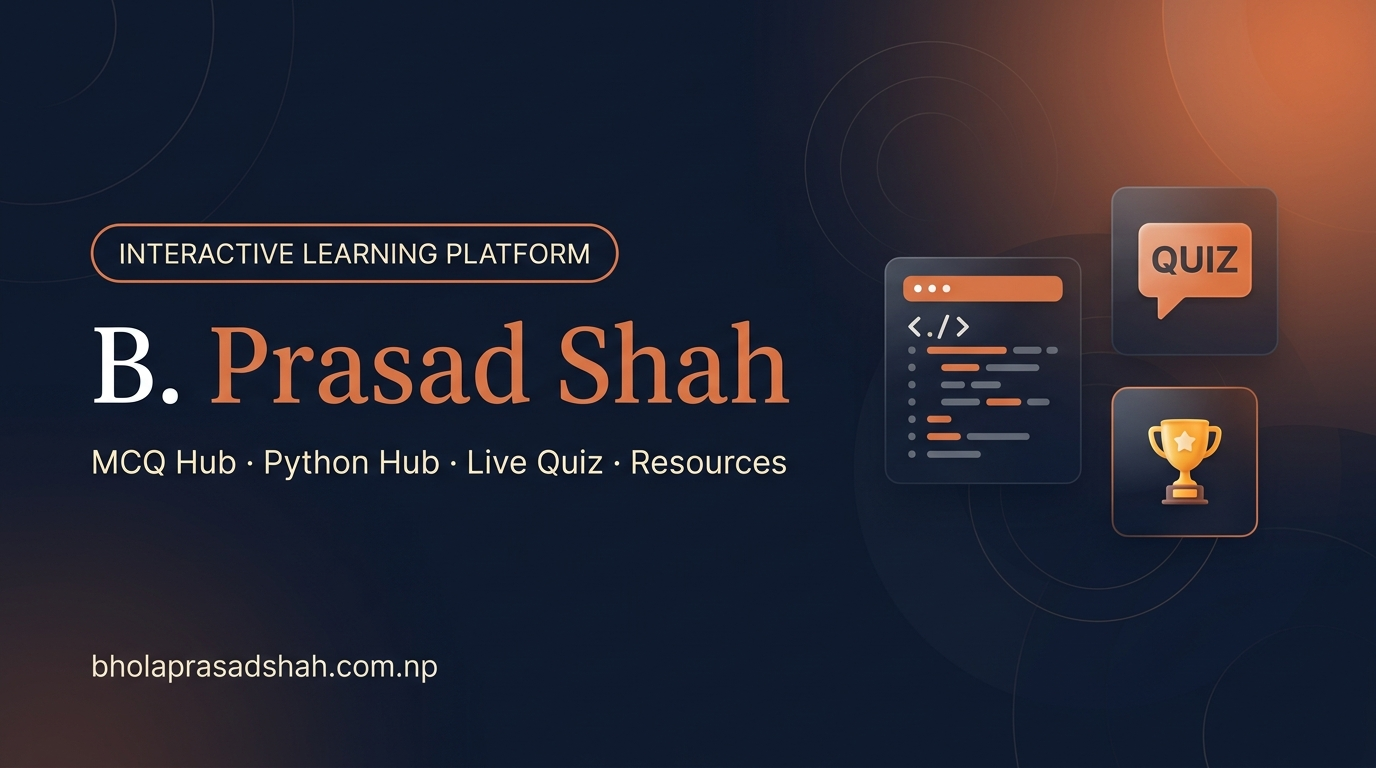
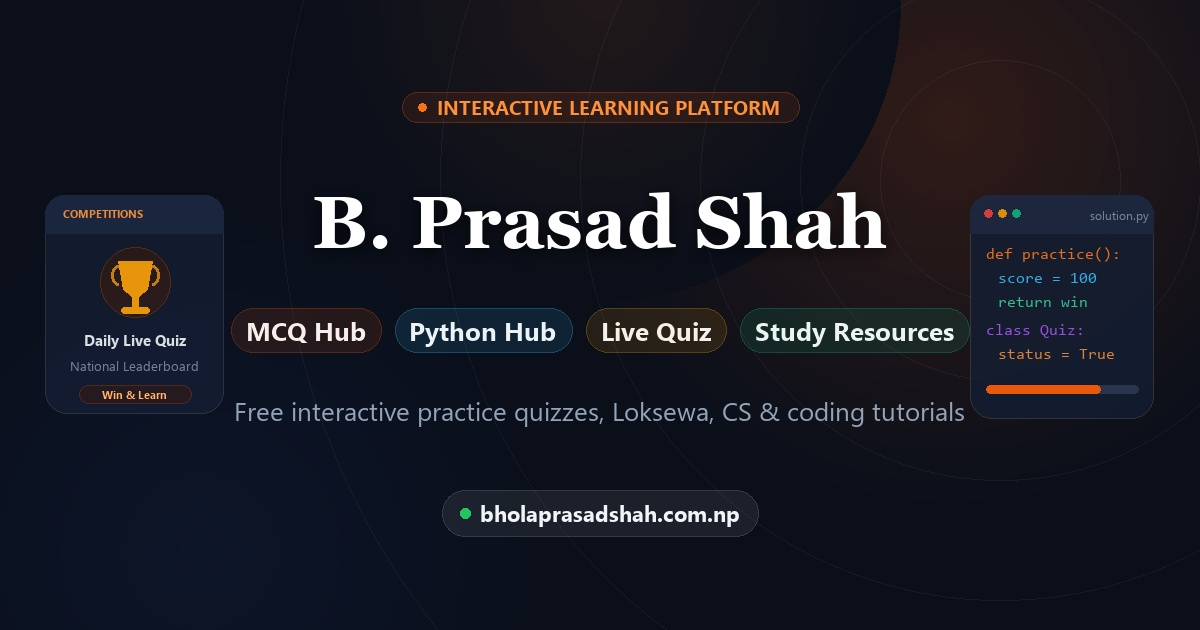
Add files via upload

diff --git a/live-quiz.html b/live-quiz.html
@@ -12,7 +12,7 @@
   <meta property="og:url" content="https://bholaprasadshah.com.np/live-quiz.html" />
   <meta property="og:title" content="Live Weekly Quiz | B. Prasad Shah" />
   <meta property="og:description" content="Join the Live Weekly Quiz — compete in real-time, test your knowledge, and win the weekly leaderboard!" />
-  <meta property="og:image" content="https://bholaprasadshah.com.np/assets/og-image.jpg" />
+  <meta property="og:image" content="https://bholaprasadshah.com.np/assets/og-image.jpg?v=20260926_01" />
   <meta property="og:image:width" content="1200" />
   <meta property="og:image:height" content="630" />
   <meta property="og:site_name" content="B. Prasad Shah" />
@@ -21,9 +21,9 @@
   <meta name="twitter:url" content="https://bholaprasadshah.com.np/live-quiz.html" />
   <meta name="twitter:title" content="Live Weekly Quiz | B. Prasad Shah" />
   <meta name="twitter:description" content="Join the Live Weekly Quiz — compete in real-time, test your knowledge, and win the weekly leaderboard!" />
-  <meta name="twitter:image" content="https://bholaprasadshah.com.np/assets/og-image.jpg" />
-  <link rel="stylesheet" href="css/style.css?v=20260922_10" />
-  <link rel="stylesheet" href="css/live.css?v=20260925_02" />
+  <meta name="twitter:image" content="https://bholaprasadshah.com.np/assets/og-image.jpg?v=20260926_01" />
+  <link rel="stylesheet" href="css/style.css?v=20260926_01" />
+  <link rel="stylesheet" href="css/live.css?v=20260926_01" />
   <link rel="preconnect" href="https://fonts.googleapis.com" />
   <link rel="preconnect" href="https://fonts.gstatic.com" crossorigin />
   <link href="https://fonts.googleapis.com/css2?family=Fraunces:opsz,wght@9..144,500;9..144,700&family=Inter:wght@400;500;600;700&display=swap" rel="stylesheet" />
@@ -344,6 +344,6 @@
   <script src="js/firebase-config.js"></script>
   <script src="js/auth-widget.js"></script>
   <script src="js/nav-drawer.js"></script>
-  <script src="js/live.js"></script>
+  <script src="js/live.js?v=20260926_01"></script>
 </body>
 </html>

diff --git a/live.html b/live.html
@@ -12,7 +12,7 @@
   <meta property="og:url" content="https://bholaprasadshah.com.np/live.html" />
   <meta property="og:title" content="Live Weekly Quiz | B. Prasad Shah" />
   <meta property="og:description" content="Join the Live Weekly Quiz — compete in real-time, test your knowledge, and win the weekly leaderboard!" />
-  <meta property="og:image" content="https://bholaprasadshah.com.np/assets/og-image.jpg" />
+  <meta property="og:image" content="https://bholaprasadshah.com.np/assets/og-image.jpg?v=20260926_01" />
   <meta property="og:image:width" content="1200" />
   <meta property="og:image:height" content="630" />
   <meta property="og:site_name" content="B. Prasad Shah" />
@@ -21,9 +21,9 @@
   <meta name="twitter:url" content="https://bholaprasadshah.com.np/live.html" />
   <meta name="twitter:title" content="Live Weekly Quiz | B. Prasad Shah" />
   <meta name="twitter:description" content="Join the Live Weekly Quiz — compete in real-time, test your knowledge, and win the weekly leaderboard!" />
-  <meta name="twitter:image" content="https://bholaprasadshah.com.np/assets/og-image.jpg" />
-  <link rel="stylesheet" href="css/style.css?v=20260922_10" />
-  <link rel="stylesheet" href="css/live.css?v=20260925_02" />
+  <meta name="twitter:image" content="https://bholaprasadshah.com.np/assets/og-image.jpg?v=20260926_01" />
+  <link rel="stylesheet" href="css/style.css?v=20260926_01" />
+  <link rel="stylesheet" href="css/live.css?v=20260926_01" />
   <link rel="preconnect" href="https://fonts.googleapis.com" />
   <link rel="preconnect" href="https://fonts.gstatic.com" crossorigin />
   <link href="https://fonts.googleapis.com/css2?family=Fraunces:opsz,wght@9..144,500;9..144,700&family=Inter:wght@400;500;600;700&display=swap" rel="stylesheet" />
@@ -344,6 +344,6 @@
   <script src="js/firebase-config.js"></script>
   <script src="js/auth-widget.js"></script>
   <script src="js/nav-drawer.js"></script>
-  <script src="js/live.js"></script>
+  <script src="js/live.js?v=20260926_01"></script>
 </body>
 </html>

diff --git a/mcq.html b/mcq.html
@@ -12,7 +12,7 @@
   <meta property="og:url" content="https://bholaprasadshah.com.np/mcq.html" />
   <meta property="og:title" content="MCQ Hub | B. Prasad Shah" />
   <meta property="og:description" content="Practice thousands of MCQs on GK, Loksewa, Science, Maths and more. Free multiple-choice quiz practice by B. Prasad Shah." />
-  <meta property="og:image" content="https://bholaprasadshah.com.np/assets/og-image.jpg" />
+  <meta property="og:image" content="https://bholaprasadshah.com.np/assets/og-image.jpg?v=20260926_01" />
   <meta property="og:image:width" content="1200" />
   <meta property="og:image:height" content="630" />
   <meta property="og:site_name" content="B. Prasad Shah" />
@@ -21,7 +21,7 @@
   <meta name="twitter:url" content="https://bholaprasadshah.com.np/mcq.html" />
   <meta name="twitter:title" content="MCQ Hub | B. Prasad Shah" />
   <meta name="twitter:description" content="Practice thousands of MCQs on GK, Loksewa, Science, Maths and more. Free multiple-choice quiz practice by B. Prasad Shah." />
-  <meta name="twitter:image" content="https://bholaprasadshah.com.np/assets/og-image.jpg" />
+  <meta name="twitter:image" content="https://bholaprasadshah.com.np/assets/og-image.jpg?v=20260926_01" />
   <link rel="stylesheet" href="css/style.css?v=20260922_11" />
   <link rel="stylesheet" href="css/mcq.css?v=20260925_04" />
   <link rel="preconnect" href="https://fonts.googleapis.com" />

diff --git a/index.html b/index.html
@@ -12,7 +12,7 @@
   <meta property="og:url" content="https://bholaprasadshah.com.np/" />
   <meta property="og:title" content="B. Prasad Shah | MCQ Hub & Python Hub" />
   <meta property="og:description" content="Master your knowledge with B. Prasad Shah's MCQ Hub, Python Hub, Live Quiz, and educational resources." />
-  <meta property="og:image" content="https://bholaprasadshah.com.np/assets/og-image.jpg" />
+  <meta property="og:image" content="https://bholaprasadshah.com.np/assets/og-image.jpg?v=20260926_01" />
   <meta property="og:image:width" content="1200" />
   <meta property="og:image:height" content="630" />
   <meta property="og:site_name" content="B. Prasad Shah" />
@@ -21,7 +21,7 @@
   <meta name="twitter:url" content="https://bholaprasadshah.com.np/" />
   <meta name="twitter:title" content="B. Prasad Shah | MCQ Hub & Python Hub" />
   <meta name="twitter:description" content="Master your knowledge with B. Prasad Shah's MCQ Hub, Python Hub, Live Quiz, and educational resources." />
-  <meta name="twitter:image" content="https://bholaprasadshah.com.np/assets/og-image.jpg" />
+  <meta name="twitter:image" content="https://bholaprasadshah.com.np/assets/og-image.jpg?v=20260926_01" />
   <link rel="stylesheet" href="css/style.css?v=20260925_03" />
   <link rel="preconnect" href="https://fonts.googleapis.com" />
   <link rel="preconnect" href="https://fonts.gstatic.com" crossorigin />

diff --git a/js/live.js b/js/live.js
@@ -257,11 +257,12 @@
       daysStepper.appendChild(dayCard);
     }
 
-    // On mobile, automatically scroll the active "Today" day into center view
+    // On mobile, scroll the active "Today" day into center view inside the stepper container only
     setTimeout(() => {
       const todayEl = daysStepper.querySelector(".is-today");
-      if (todayEl && window.innerWidth <= 600) {
-        todayEl.scrollIntoView({ behavior: "smooth", inline: "center", block: "nearest" });
+      if (todayEl && daysStepper && daysStepper.scrollWidth > daysStepper.clientWidth) {
+        const targetScroll = todayEl.offsetLeft - (daysStepper.clientWidth - todayEl.clientWidth) / 2;
+        daysStepper.scrollTo({ left: Math.max(0, targetScroll), behavior: "smooth" });
       }
     }, 100);
   }

diff --git a/css/live.css b/css/live.css
@@ -125,6 +125,7 @@
     overflow-x: auto;
     -webkit-overflow-scrolling: touch;
     scroll-snap-type: x mandatory;
+    overscroll-behavior-x: contain;
     padding: 2px 4px 10px;
     gap: 10px;
     scrollbar-width: thin;

diff --git a/css/style.css b/css/style.css
@@ -38,6 +38,7 @@ html {
   overflow-x: hidden;
   max-width: 100%;
   height: 100%;
+  scrollbar-gutter: stable;
 }
 
 body {

diff --git a/scratch/generate_og.py b/scratch/generate_og.py
@@ -1,0 +1,227 @@
+import math
+import os
+from PIL import Image, ImageDraw, ImageFont, ImageFilter
+
+W, H = 1200, 630
+
+# Create base canvas
+img = Image.new("RGBA", (W, H), (10, 15, 26, 255))
+
+# Draw smooth ambient glows
+glow_layer = Image.new("RGBA", (W, H), (0, 0, 0, 0))
+glow_draw = ImageDraw.Draw(glow_layer)
+
+# Radial glow 1: Warm orange glow in top-right
+for r in range(400, 0, -10):
+    alpha = int(45 * (1 - r / 400))
+    glow_draw.ellipse([950 - r, 120 - r, 950 + r, 120 + r], fill=(234, 88, 12, alpha))
+
+# Radial glow 2: Soft amber/orange in center-top
+for r in range(300, 0, -10):
+    alpha = int(25 * (1 - r / 300))
+    glow_draw.ellipse([600 - r, 0 - r, 600 + r, 0 + r], fill=(249, 115, 22, alpha))
+
+# Radial glow 3: Deep blue glow in bottom-left
+for r in range(350, 0, -10):
+    alpha = int(35 * (1 - r / 350))
+    glow_draw.ellipse([200 - r, 550 - r, 200 + r, 550 + r], fill=(30, 58, 138, alpha))
+
+# Blend glow
+img = Image.alpha_composite(img, glow_layer)
+
+# Draw subtle concentric ambient circles in the background
+circles_layer = Image.new("RGBA", (W, H), (0, 0, 0, 0))
+circ_draw = ImageDraw.Draw(circles_layer)
+center_x, center_y = 1000, 180
+for radius in [120, 200, 300, 420, 560, 720]:
+    circ_draw.ellipse(
+        [center_x - radius, center_y - radius, center_x + radius, center_y + radius],
+        outline=(255, 255, 255, 12),
+        width=1
+    )
+img = Image.alpha_composite(img, circles_layer)
+
+# Setup Fonts
+def get_font(name, size):
+    fonts_dir = "C:/Windows/Fonts"
+    path = os.path.join(fonts_dir, name)
+    if os.path.exists(path):
+        try:
+            return ImageFont.truetype(path, size)
+        except Exception:
+            pass
+    # Fallback to standard arial or segoeui
+    fallback = os.path.join(fonts_dir, "arial.ttf")
+    if os.path.exists(fallback):
+        return ImageFont.truetype(fallback, size)
+    return ImageFont.load_default()
+
+font_title = get_font("georgiab.ttf", 74)
+font_badge = get_font("segoeuib.ttf", 20)
+font_sub = get_font("segoeui.ttf", 26)
+font_sub_bold = get_font("segoeuib.ttf", 26)
+font_url = get_font("segoeuib.ttf", 22)
+font_card = get_font("segoeuib.ttf", 18)
+font_code = get_font("consola.ttf", 16)
+
+draw = ImageDraw.Draw(img)
+
+# --- Decorative Flanking Cards (Outside the Center Safe Zone) ---
+# Left Flanking Card: Trophy / Achievement Card (around x=45, y=195)
+card_left = Image.new("RGBA", (180, 220), (0, 0, 0, 0))
+cl_draw = ImageDraw.Draw(card_left)
+# Card background
+cl_draw.rounded_rectangle([0, 0, 178, 218], radius=22, fill=(19, 29, 49, 220), outline=(255, 255, 255, 35), width=1)
+# Header
+cl_draw.rounded_rectangle([0, 0, 178, 38], radius=22, fill=(28, 40, 65, 230))
+cl_draw.rectangle([0, 20, 178, 38], fill=(28, 40, 65, 230))
+cl_draw.text((18, 11), "COMPETITIONS", font=get_font("segoeuib.ttf", 11), fill=(251, 146, 60, 240))
+# Trophy icon / golden accent
+cl_draw.ellipse([55, 52, 125, 122], fill=(234, 88, 12, 35), outline=(234, 88, 12, 90), width=1)
+# Simple stylized trophy shape
+cl_draw.polygon([(73, 66), (107, 66), (102, 94), (93, 102), (87, 102), (78, 94)], fill=(245, 158, 11, 240))
+cl_draw.rectangle([87, 102, 93, 112], fill=(245, 158, 11, 240))
+cl_draw.rounded_rectangle([76, 112, 104, 118], radius=3, fill=(245, 158, 11, 240))
+# Handles
+cl_draw.arc([66, 70, 80, 90], start=90, end=270, fill=(245, 158, 11, 200), width=3)
+cl_draw.arc([100, 70, 114, 90], start=270, end=90, fill=(245, 158, 11, 200), width=3)
+# Label
+cl_draw.text((90, 140), "Daily Live Quiz", font=get_font("segoeuib.ttf", 15), fill=(241, 245, 249, 230), anchor="mt")
+cl_draw.text((90, 166), "National Leaderboard", font=get_font("segoeui.ttf", 13), fill=(148, 163, 184, 200), anchor="mt")
+# Bottom mini badge
+cl_draw.rounded_rectangle([34, 190, 146, 208], radius=9, fill=(234, 88, 12, 30), outline=(234, 88, 12, 80), width=1)
+cl_draw.text((90, 199), "Win & Learn", font=get_font("segoeuib.ttf", 11), fill=(253, 186, 116, 255), anchor="mm")
+
+img.paste(card_left, (45, 195), card_left)
+
+# Right Flanking Card: Code Editor Card (around x=975, y=195)
+card_right = Image.new("RGBA", (185, 225), (0, 0, 0, 0))
+cr_draw = ImageDraw.Draw(card_right)
+cr_draw.rounded_rectangle([0, 0, 183, 223], radius=22, fill=(19, 29, 49, 220), outline=(255, 255, 255, 35), width=1)
+# Header bar
+cr_draw.rounded_rectangle([0, 0, 183, 38], radius=22, fill=(28, 40, 65, 230))
+cr_draw.rectangle([0, 20, 183, 38], fill=(28, 40, 65, 230))
+# Dots
+cr_draw.ellipse([14, 14, 22, 22], fill=(239, 68, 68, 220))
+cr_draw.ellipse([28, 14, 36, 22], fill=(245, 158, 11, 220))
+cr_draw.ellipse([42, 14, 50, 22], fill=(16, 185, 129, 220))
+cr_draw.text((120, 12), "solution.py", font=get_font("segoeui.ttf", 12), fill=(148, 163, 184, 200))
+# Code lines
+cr_draw.text((16, 52), "def practice():", font=font_code, fill=(249, 115, 22, 240))
+cr_draw.text((28, 76), "score = 100", font=font_code, fill=(56, 189, 248, 230))
+cr_draw.text((28, 100), "return win", font=font_code, fill=(52, 211, 153, 230))
+cr_draw.text((16, 128), "class Quiz:", font=font_code, fill=(168, 85, 247, 230))
+cr_draw.text((28, 152), "status = True", font=font_code, fill=(251, 146, 60, 220))
+# Subtle progress fill at bottom
+cr_draw.rounded_rectangle([16, 190, 168, 198], radius=4, fill=(40, 53, 76, 255))
+cr_draw.rounded_rectangle([16, 190, 130, 198], radius=4, fill=(234, 88, 12, 255))
+
+img.paste(card_right, (970, 195), card_right)
+
+
+# --- CENTER SAFE ZONE (All primary branding centered horizontally) ---
+center_x = W // 2
+
+# 1. Top Pill Badge: INTERACTIVE LEARNING PLATFORM
+badge_text = "INTERACTIVE LEARNING PLATFORM"
+bbox = font_badge.getbbox(badge_text)
+bw = bbox[2] - bbox[0] + 54
+bh = bbox[3] - bbox[1] + 16
+bx1 = center_x - bw // 2
+by1 = 92
+bx2 = bx1 + bw
+by2 = by1 + bh
+
+# Badge frosted background
+badge_img = Image.new("RGBA", (W, H), (0, 0, 0, 0))
+b_draw = ImageDraw.Draw(badge_img)
+b_draw.rounded_rectangle([bx1, by1, bx2, by2], radius=bh // 2, fill=(234, 88, 12, 26), outline=(234, 88, 12, 90), width=1)
+# Small glowing dot on the left of the badge
+b_draw.ellipse([bx1 + 16, by1 + bh // 2 - 4, bx1 + 24, by1 + bh // 2 + 4], fill=(249, 115, 22, 255))
+b_draw.text((center_x + 8, by1 + bh // 2), badge_text, font=font_badge, fill=(251, 146, 60, 255), anchor="mm")
+img = Image.alpha_composite(img, badge_img)
+
+# 2. Main Title: B. Prasad Shah
+title_text = "B. Prasad Shah"
+title_y = 222
+
+# Drop shadow
+shadow_img = Image.new("RGBA", (W, H), (0, 0, 0, 0))
+s_draw = ImageDraw.Draw(shadow_img)
+s_draw.text((center_x, title_y + 4), title_text, font=font_title, fill=(0, 0, 0, 190), anchor="mm")
+shadow_img = shadow_img.filter(ImageFilter.GaussianBlur(radius=8))
+img = Image.alpha_composite(img, shadow_img)
+
+# Title text (warm off-white/cream)
+t_draw = ImageDraw.Draw(img)
+t_draw.text((center_x, title_y), title_text, font=font_title, fill=(255, 255, 255, 255), anchor="mm")
+
+# 3. Subtitle / Features Row: MCQ Hub • Python Hub • Live Quiz • Resources
+feature_y = 330
+pill_features = [
+    ("MCQ Hub", (234, 88, 12)),
+    ("Python Hub", (56, 189, 248)),
+    ("Live Quiz", (245, 158, 11)),
+    ("Study Resources", (16, 185, 129))
+]
+
+# Calculate total width for pill tags
+pill_w_list = []
+for label, _ in pill_features:
+    t_box = font_sub_bold.getbbox(label)
+    pill_w_list.append((t_box[2] - t_box[0]) + 30)
+
+spacing = 14
+total_pills_w = sum(pill_w_list) + spacing * (len(pill_features) - 1)
+cur_x = center_x - total_pills_w // 2
+
+pills_layer = Image.new("RGBA", (W, H), (0, 0, 0, 0))
+p_draw = ImageDraw.Draw(pills_layer)
+
+for i, (label, color) in enumerate(pill_features):
+    pw = pill_w_list[i]
+    ph = 44
+    py = feature_y - ph // 2
+    # Pill background
+    p_draw.rounded_rectangle(
+        [cur_x, py, cur_x + pw, py + ph],
+        radius=ph // 2,
+        fill=(color[0], color[1], color[2], 30),
+        outline=(color[0], color[1], color[2], 85),
+        width=1
+    )
+    p_draw.text((cur_x + pw // 2, py + ph // 2), label, font=font_sub_bold, fill=(255, 255, 255, 240), anchor="mm")
+    cur_x += pw + spacing
+
+img = Image.alpha_composite(img, pills_layer)
+
+# 4. Description line
+desc_text = "Free interactive practice quizzes, Loksewa, CS & coding tutorials"
+d_draw = ImageDraw.Draw(img)
+d_draw.text((center_x, 410), desc_text, font=font_sub, fill=(148, 163, 184, 230), anchor="mm")
+
+# 5. Bottom URL Badge: bholaprasadshah.com.np
+url_text = "bholaprasadshah.com.np"
+ubox = font_url.getbbox(url_text)
+uw = ubox[2] - ubox[0] + 56
+uh = 46
+ux1 = center_x - uw // 2
+uy1 = 490
+ux2 = ux1 + uw
+uy2 = uy1 + uh
+
+url_layer = Image.new("RGBA", (W, H), (0, 0, 0, 0))
+u_draw = ImageDraw.Draw(url_layer)
+# Frosted pill
+u_draw.rounded_rectangle([ux1, uy1, ux2, uy2], radius=uh // 2, fill=(255, 255, 255, 18), outline=(255, 255, 255, 45), width=1)
+# Green status dot
+u_draw.ellipse([ux1 + 18, uy1 + uh // 2 - 5, ux1 + 28, uy1 + uh // 2 + 5], fill=(34, 197, 94, 255))
+u_draw.text((ux1 + 38, uy1 + uh // 2), url_text, font=font_url, fill=(241, 245, 249, 255), anchor="lm")
+
+img = Image.alpha_composite(img, url_layer)
+
+# Convert to RGB and save as high-quality JPEG
+final_img = img.convert("RGB")
+out_path = "assets/og-image.jpg"
+final_img.save(out_path, "JPEG", quality=95, optimize=True)
+print(f"Successfully generated {out_path} with size {final_img.size}")
